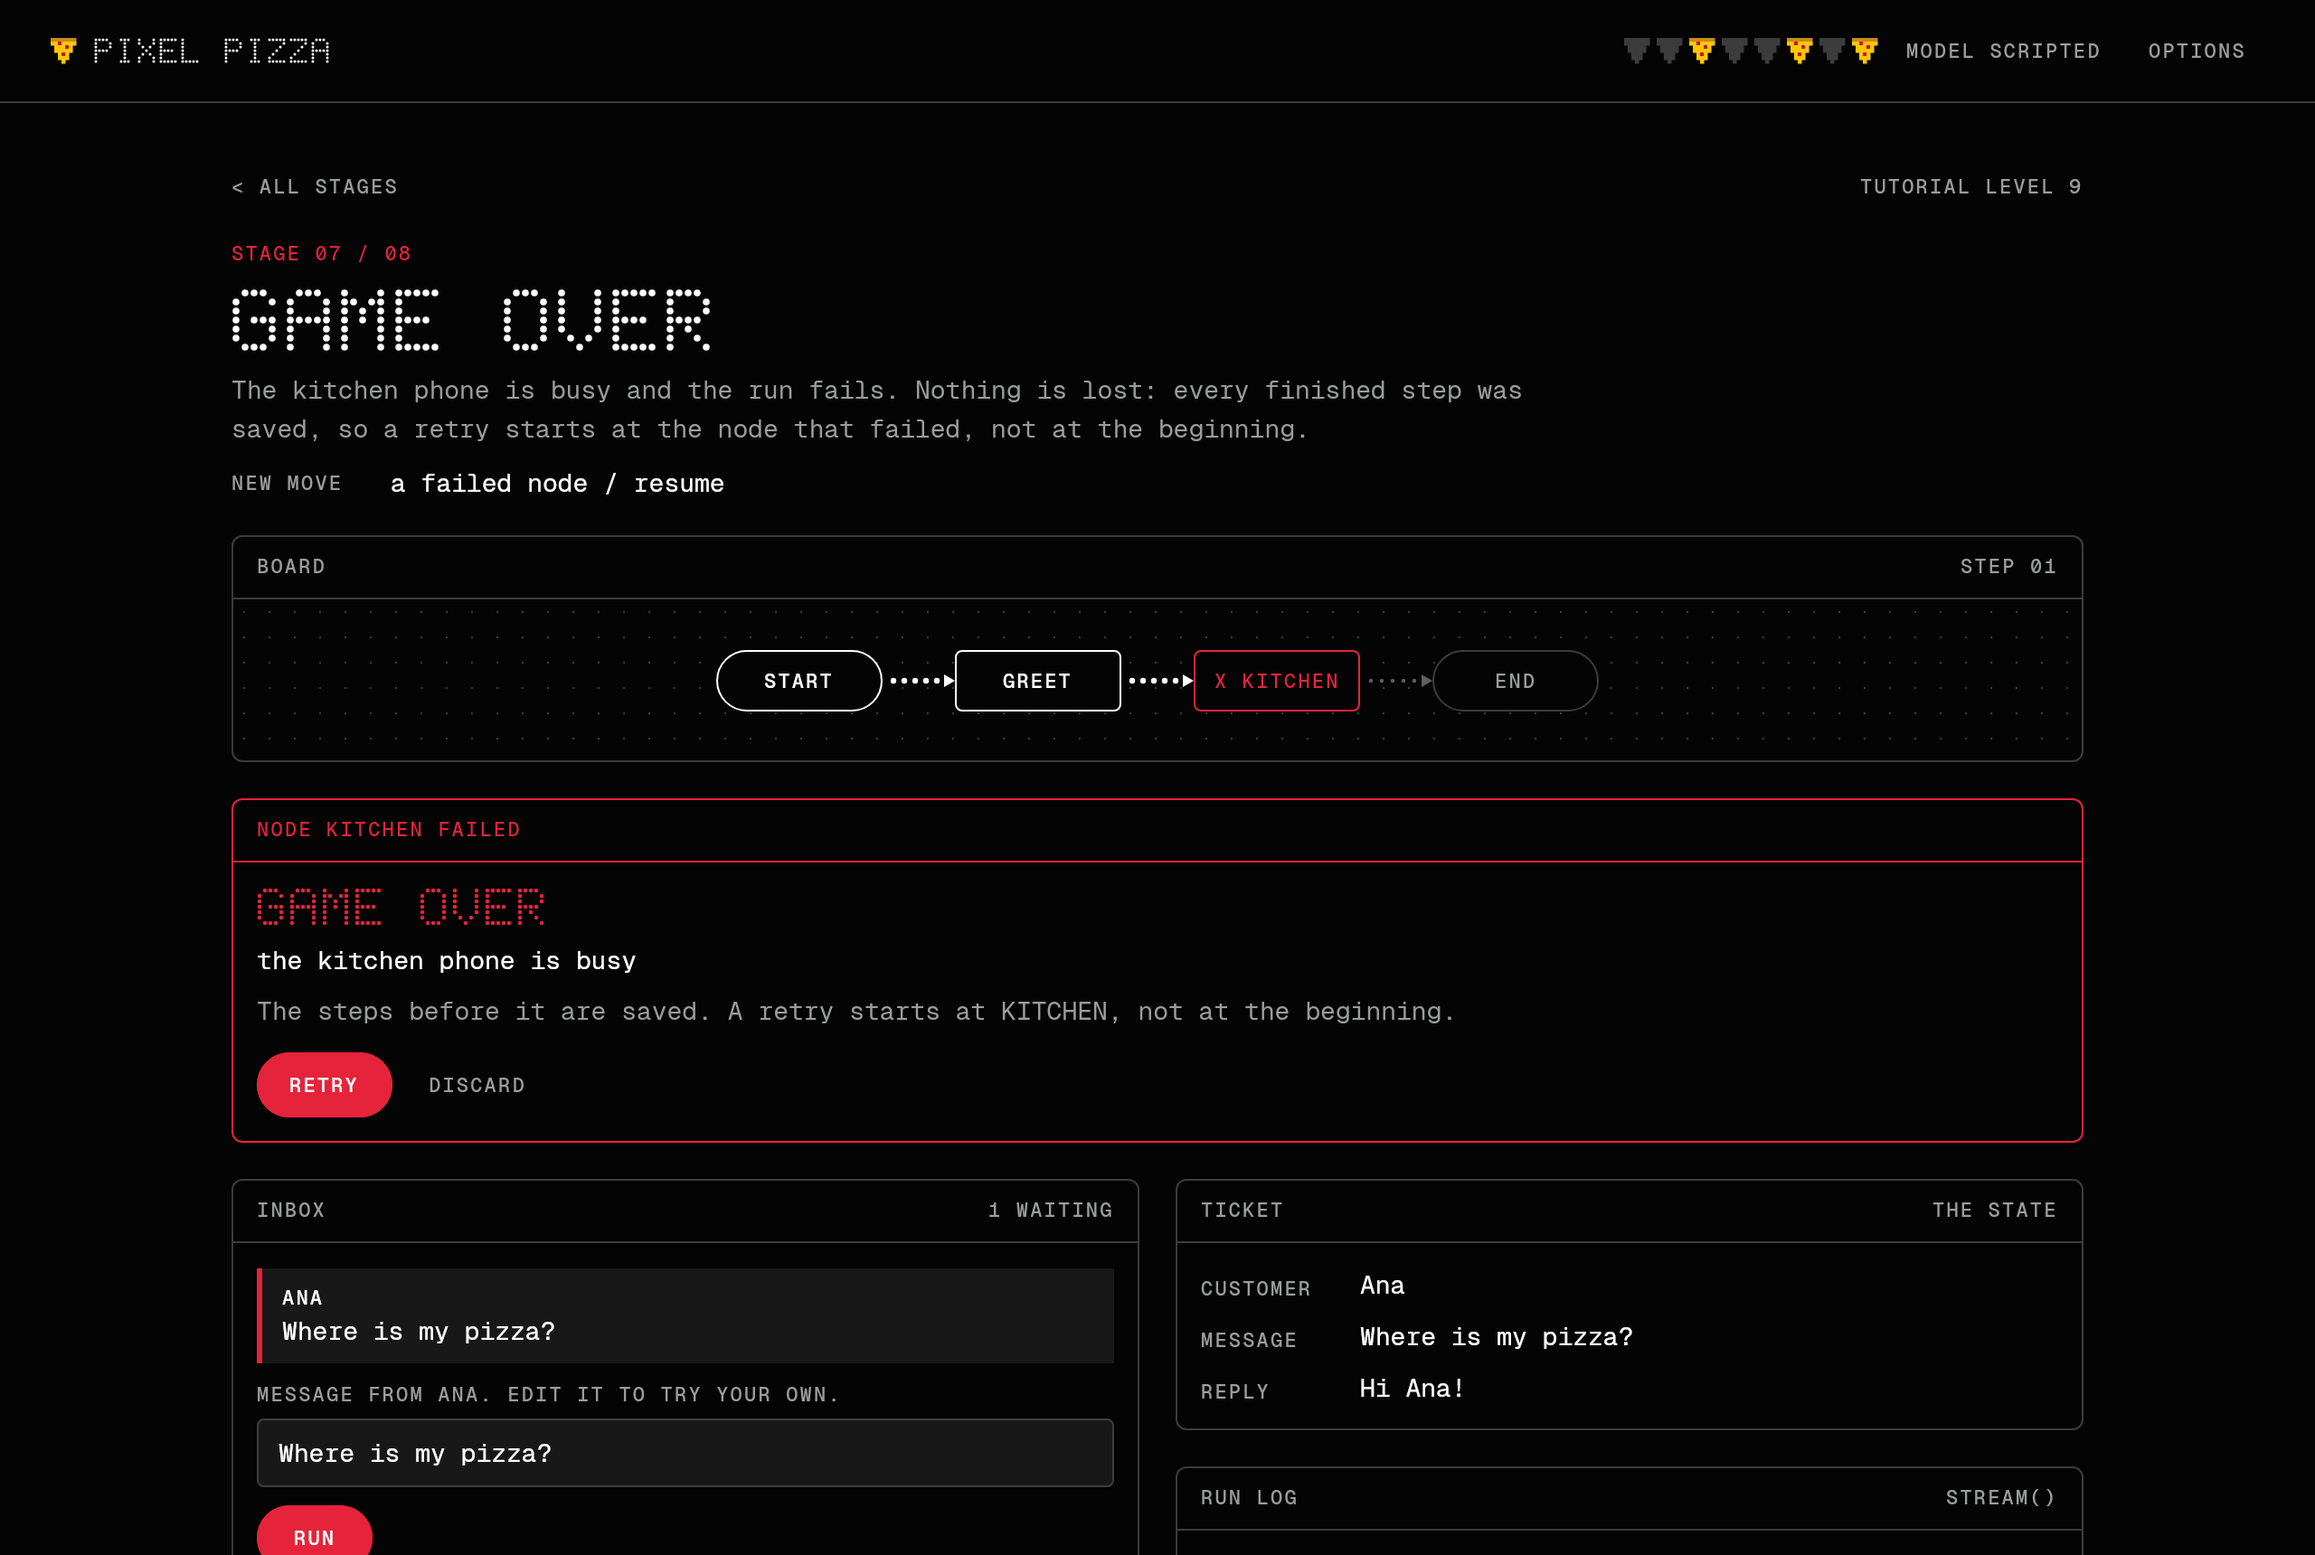
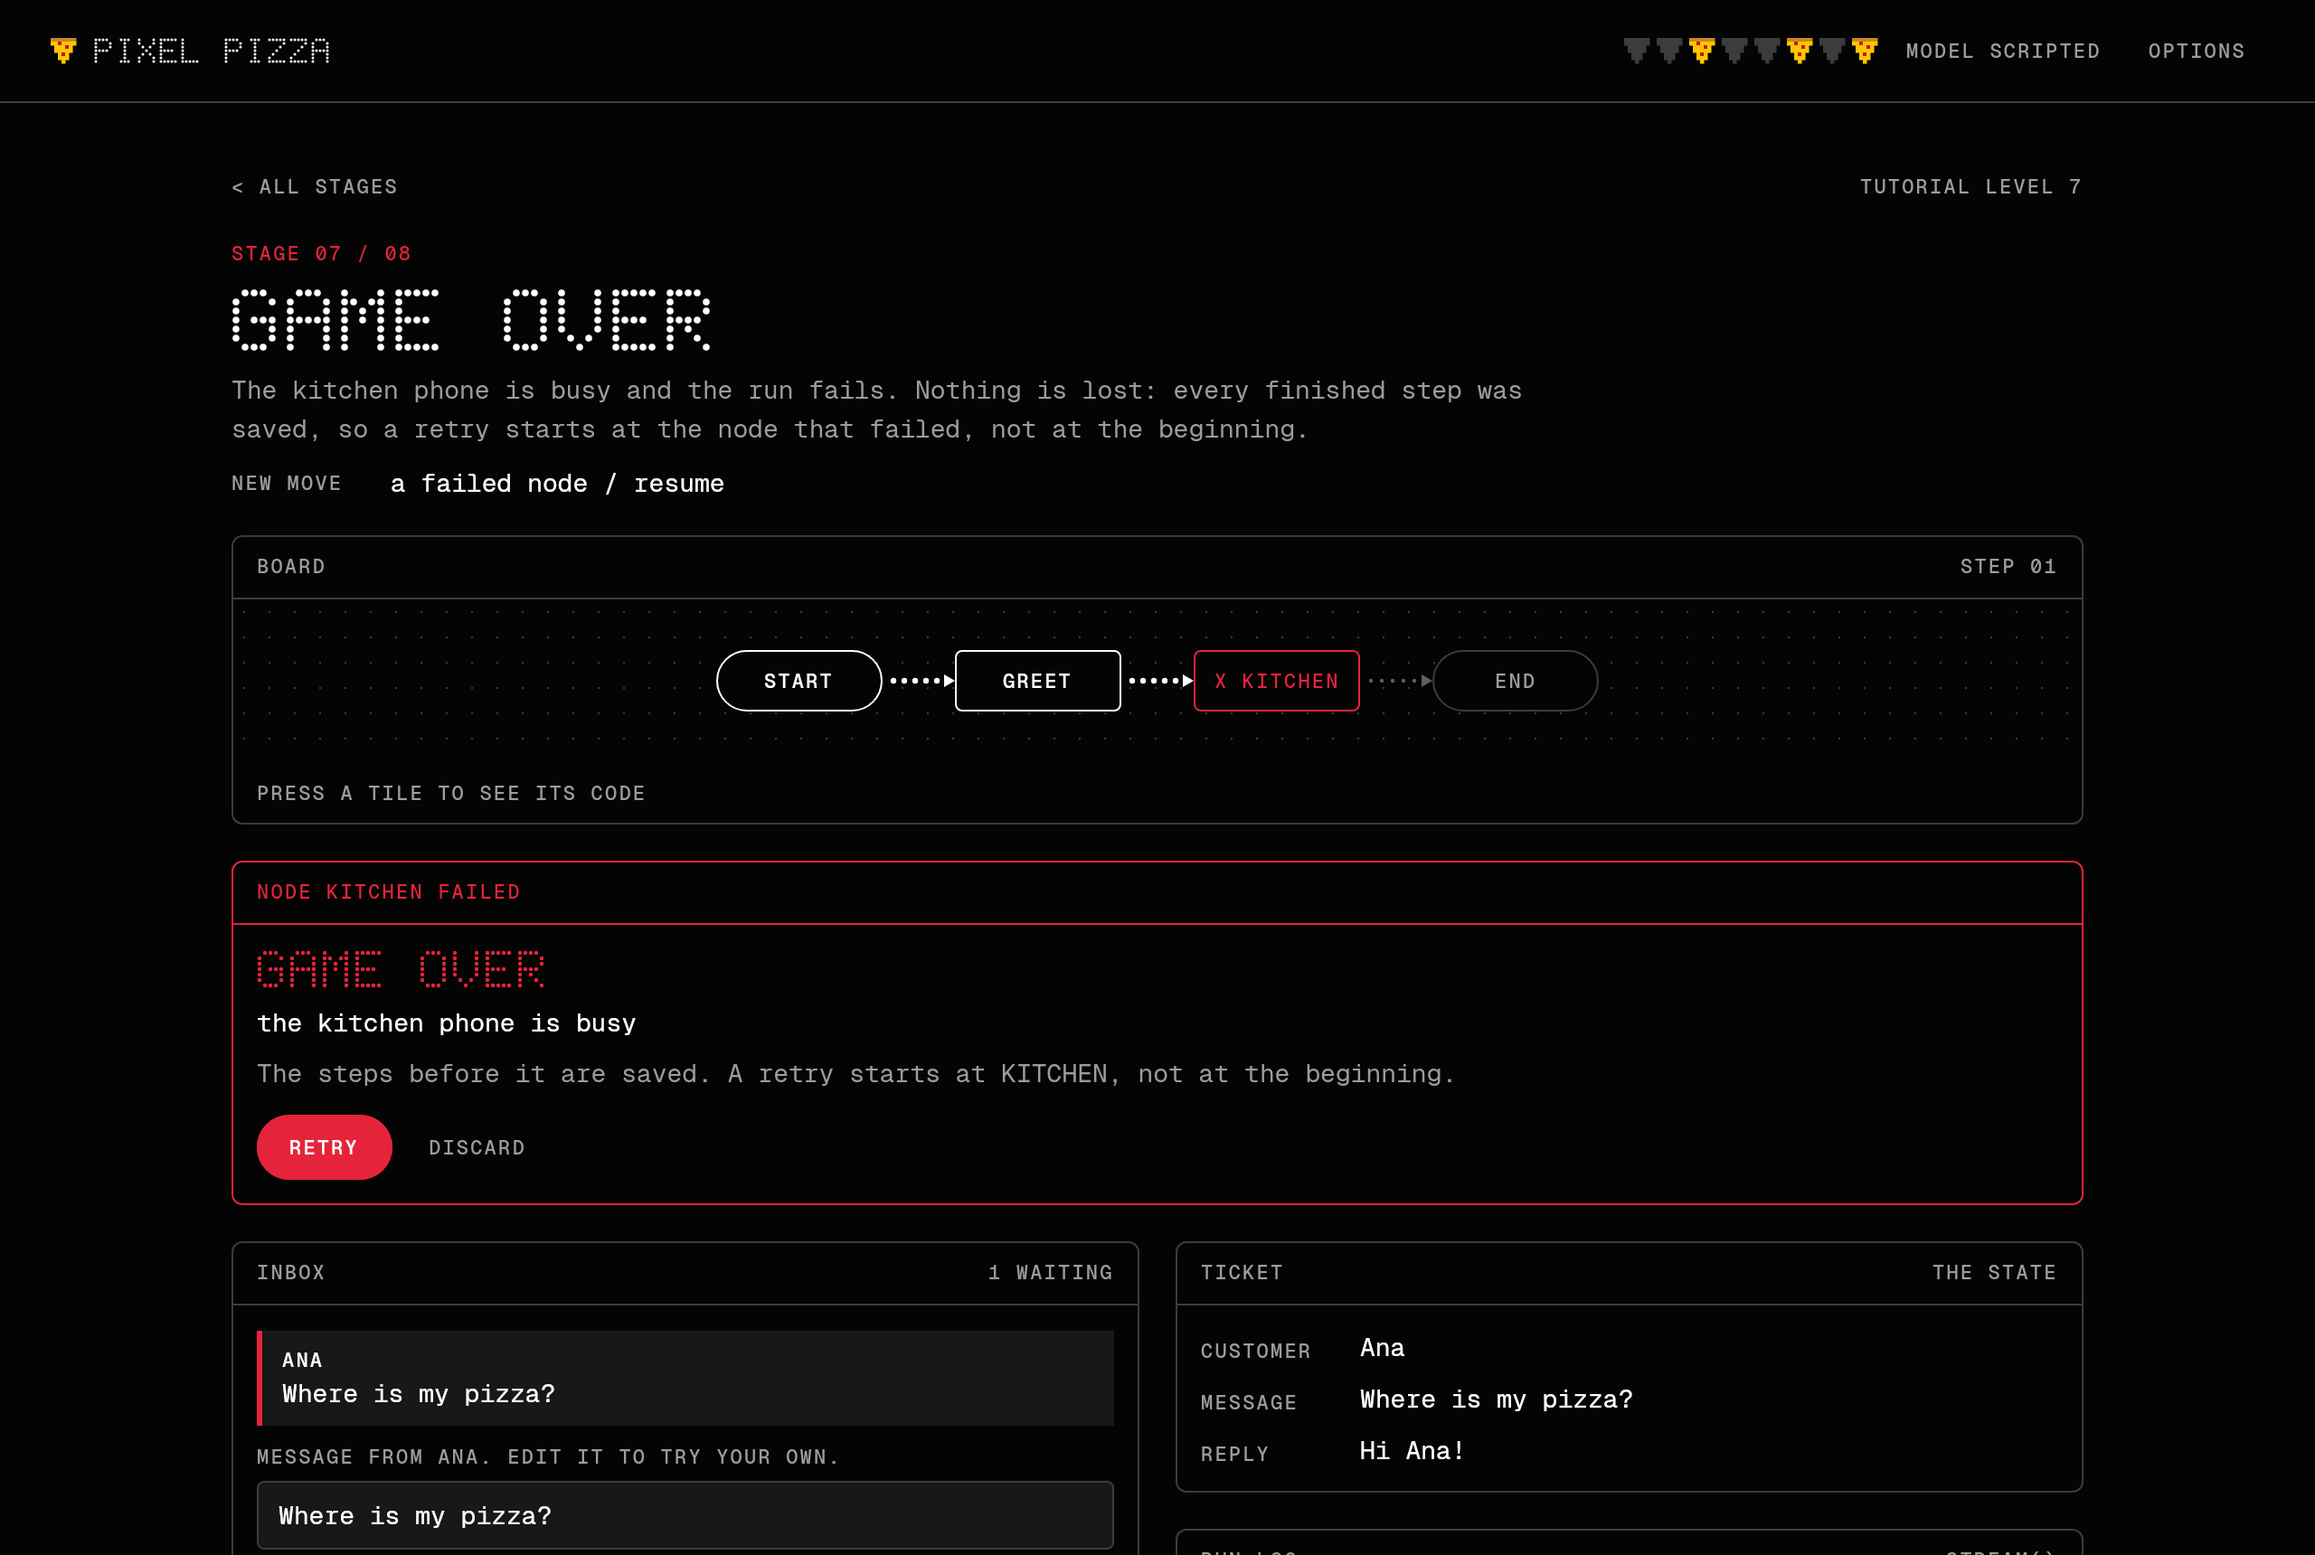
Docs: Draw the pictures again, and add the findings of the agent in stage 8
The three pictures in the README said "Tutorial level 10", from before
the tutorial had eight levels.

Claude-Session: https://claude.ai/code/session_01PigprY1z1X6wUtJjWMk3qh

diff --git a/FINDINGS.md b/FINDINGS.md
@@ -310,3 +310,43 @@ What the pass showed:
 - **A save does not go back to an older build.** The changelog says that the earlier version cannot
   read a thread with more than one checkpoint. On the desktop and on Android a run saved by this
   build of the game is therefore lost to an older one. For a game that is acceptable.
+
+## The eighth pass: the agent in the full desk
+
+Level 8 of the tutorial sends a question about the menu to an agent. Stage 8 of the game did not: it
+had three of the four routes, and "Do you sell salad?" got the reply for everything else. This pass
+added the route, with `0.1.0-alpha07`.
+
+What changed here:
+
+- Stage 8 has a `toolLoop` with the price tool of stage 6 and a `send` node after it, as level 8 has.
+  Its inbox has a fourth ticket, so that every route can be played.
+- `topicOf` knows the topic `menu`. Stages 1 and 2 share the function: stage 1 now files the salad
+  question under `menu`, and stage 2 routes it as before.
+- The code under a tile follows a helper into another object. The agent of stage 8 is in
+  `HelpDesks.kt` and its tool in `Agent.kt`, and the tile shows both.
+- The three pictures in the README are new. They still said "Tutorial level 10", from before the
+  tutorial had eight levels.
+
+What was checked:
+
+- 50 tests pass on the JVM and 47 in headless Chrome (wasmJs). Three are new on both: the graph
+  answers a question about the menu with the price, the game lights the loop and the way out of it,
+  and the tiles of the agent show its arrows and its tool.
+- The browser bundle builds.
+- The JVM run draws stage 8 with the tool at work, and the arrows of the agent do not cross a tile.
+
+Not checked: the new route with Claude. Its prompt has only been answered by the scripted model.
+Also not checked: the hosted game in a real browser, and the Android app on a device.
+
+What the pass showed about the library:
+
+- **`toolLoop` went into a graph with three other routes as it is.** What it returns is a target of
+  a conditional edge like any node, and `then` names the node that follows the agent. Stage 6 and
+  stage 8 keep their conversation in the same field of the ticket.
+- **The game drew and logged the new route without a change.** The arrows of the loop come from
+  `topology`, and the run log reads the tool calls from the state of each step. The stage only had
+  to say where its three new tiles sit.
+- **The two nodes of the agent have the names the library gives them.** Stage 8 calls them `model`
+  and `tools`, as the tutorial does. Stage 6 names its model node `assistant`, so the same node has
+  two names in the game.

diff --git a/README.md b/README.md
@@ -24,7 +24,7 @@ nodes to a full agent workflow. One Compose Multiplatform codebase runs it in th
 | 5 | Save points | `interruptBefore` stops the run for you; `resume` continues it, also after a reload |
 | 6 | The agent | A model that calls tools, as a loop of two nodes |
 | 7 | Game over | A node fails; `resume` retries from the last save |
-| 8 | The full desk | All of it on one board |
+| 8 | The full desk | All of it on one board: four kinds of ticket, four ways through |
 
 Each stage is the level of the tutorial with the same number: stage 3 is level 3.
 
